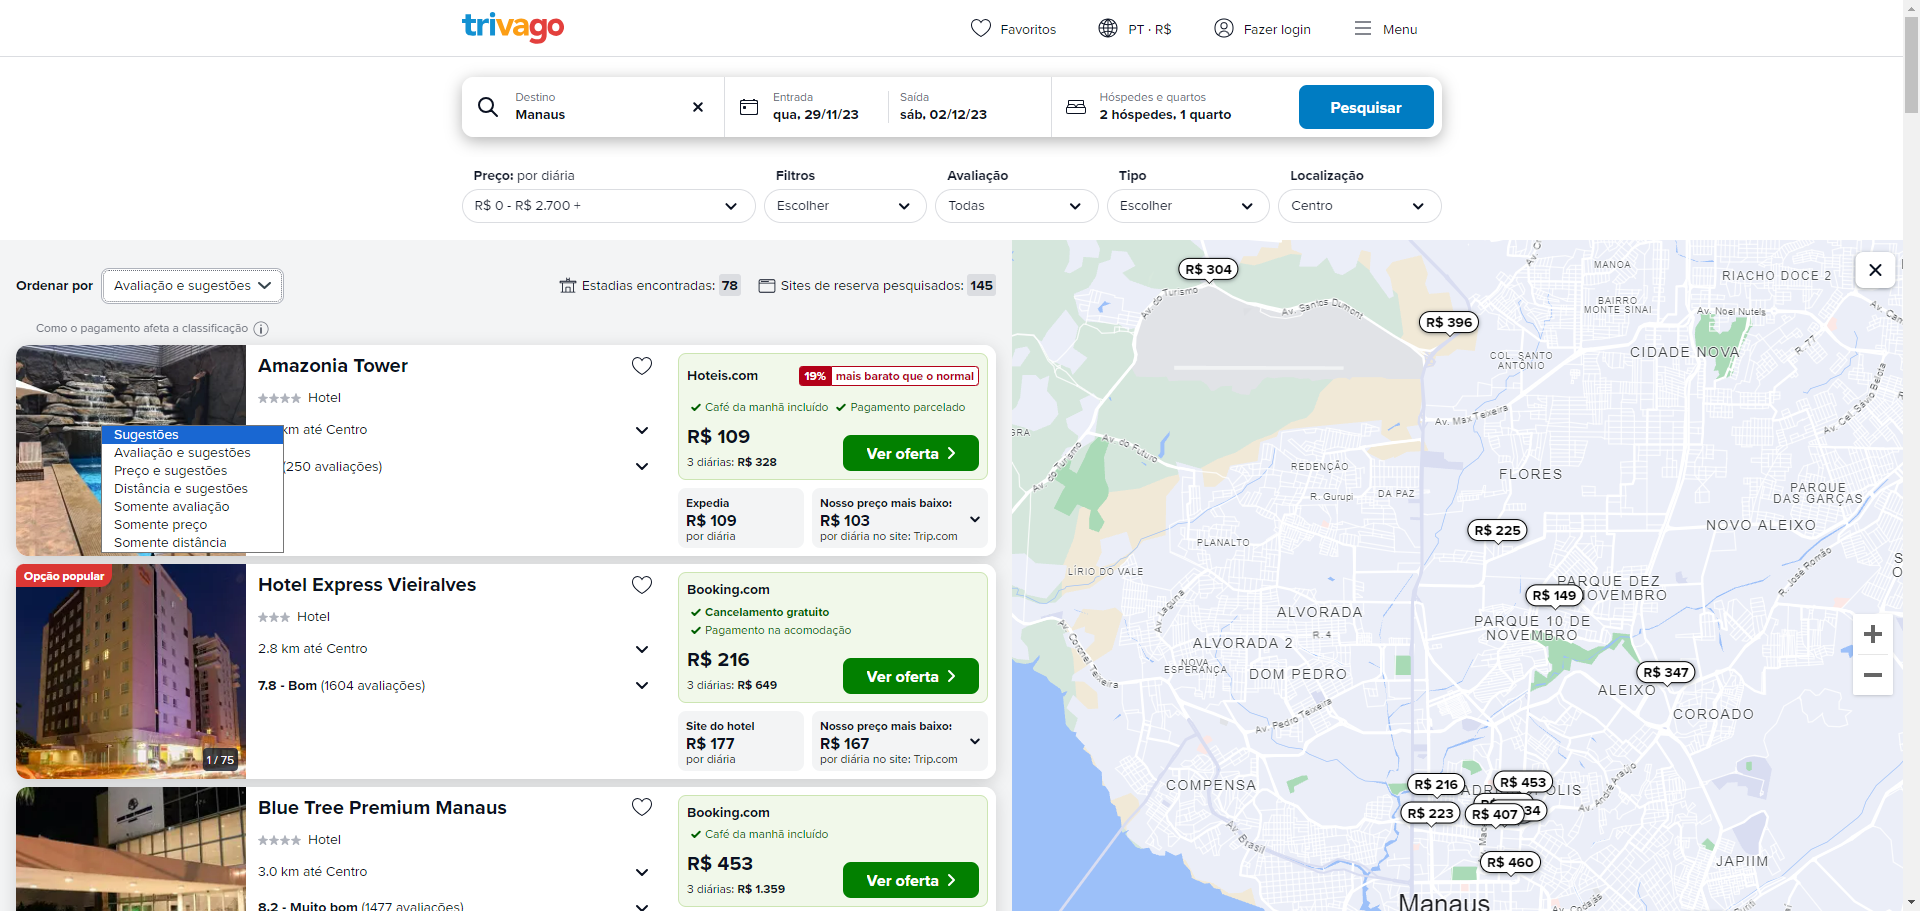
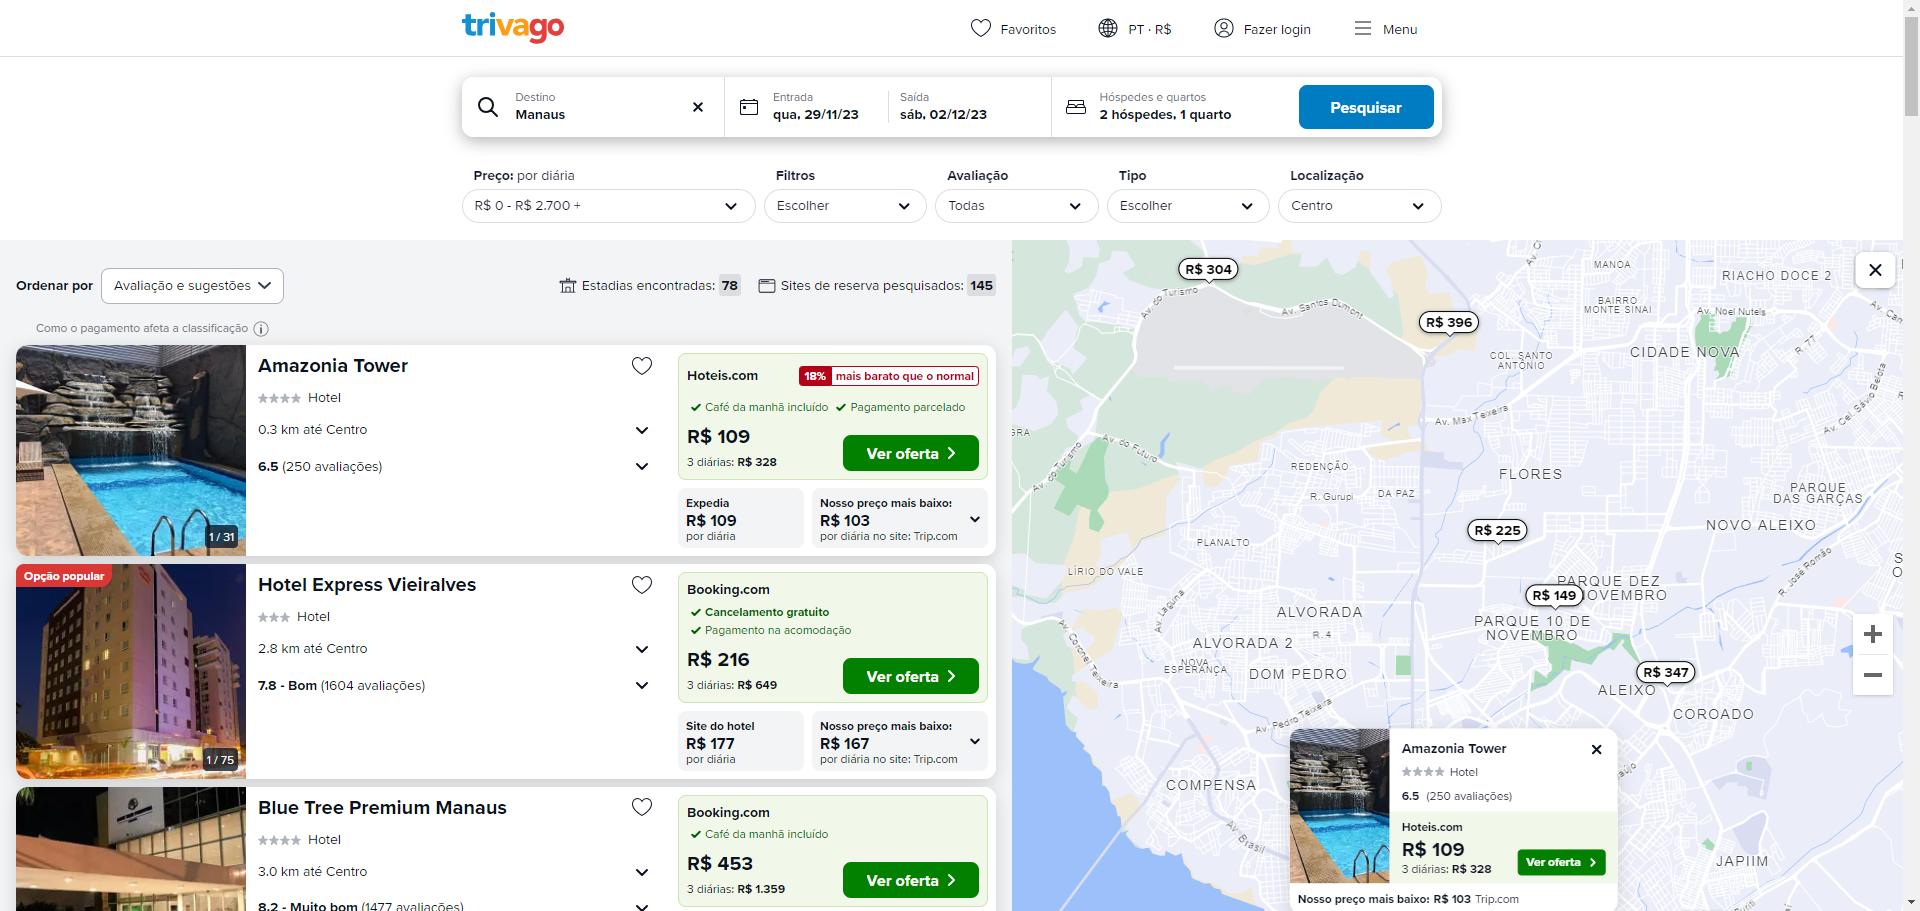
update no desafio_3

Changed region(s): [[0.6562, 0.7991, 0.8438, 1.0], [0.0312, 0.461, 0.1562, 0.6147]]

diff --git a/desafio_3/src/main/java/dev/leonardo/automation/trivago/BuscarManaus.java b/desafio_3/src/main/java/dev/leonardo/automation/trivago/BuscarManaus.java
@@ -25,6 +25,7 @@ public class BuscarManaus extends BasePage {
     private By subMenuSugestionLocator = By.xpath("//*[@id=\"sorting-selector\"]/option[2]");
     private By titlePageSugestionLocator = By.cssSelector("#sorting-selector");
     private By sugestionLocator = By.xpath("//*[@id=\"sorting-selector\"]/option[2]");
+    private By avaliationLocator = By.xpath("//*[@id=\"__next\"]/div/main/div[3]/div[1]/div[1]/div[2]/div/div/ol/li[1]/div/article/div[2]/div[1]/button[2]");
 
     public void inserirDestino() throws AWTException, InterruptedException {
         super.findElement(cityNameLocator).click();
@@ -51,7 +52,12 @@ public class BuscarManaus extends BasePage {
             super.selectByVisibleText(subMenuSugestionLocator, opcaoVisivel);
             super.click(sugestionLocator);
             Thread.sleep(5000);
-            super.clickRandomLocation();
+            //super.clickRandomLocation();
+            //Thread.sleep(5000);
+
+            super.findElement(avaliationLocator);
+            super.click(avaliationLocator);
+            Thread.sleep(3000);
             super.takeScreenshot("sugestao");
         }else{
             System.out.println("menu sugestion was not found");

diff --git a/desafio_3/src/main/java/dev/leonardo/automation/trivago/BasePage.java b/desafio_3/src/main/java/dev/leonardo/automation/trivago/BasePage.java
@@ -125,8 +125,8 @@ public abstract class BasePage {
         Random random = new Random();
 
         // Gerar coordenadas aleatórias dentro das dimensões da janela
-        int randomX = random.nextInt(windowWidth);
-        int randomY = random.nextInt(windowHeight);
+        int randomX = random.nextInt(windowWidth -50);
+        int randomY = random.nextInt(windowHeight -50);
 
         // Usar a classe Actions para mover o cursor para a posição aleatória e clicar
         action.moveByOffset(randomX, randomY).click().perform();
